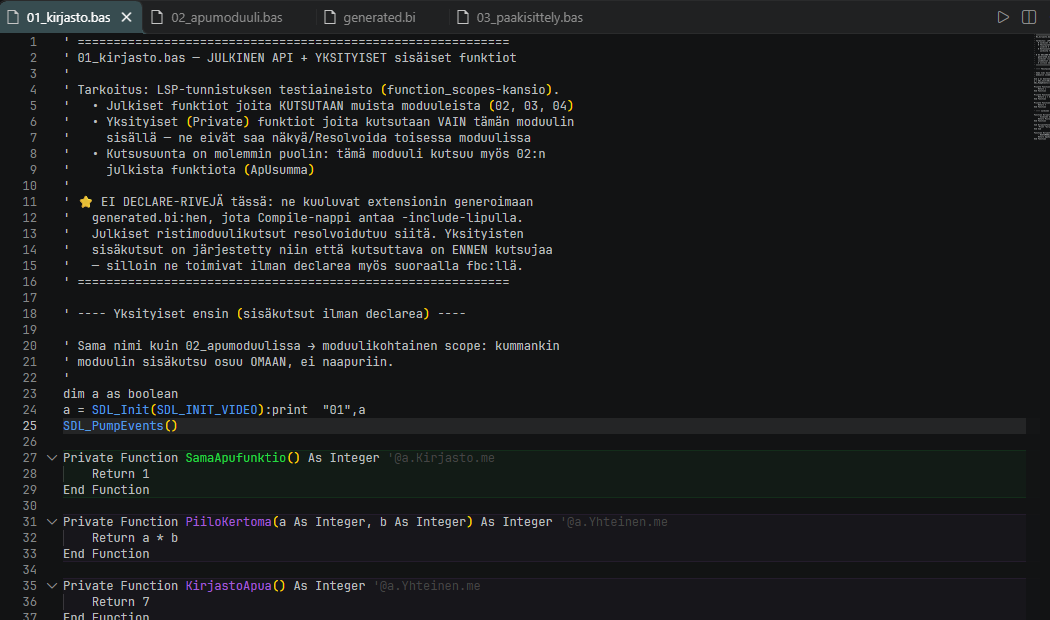
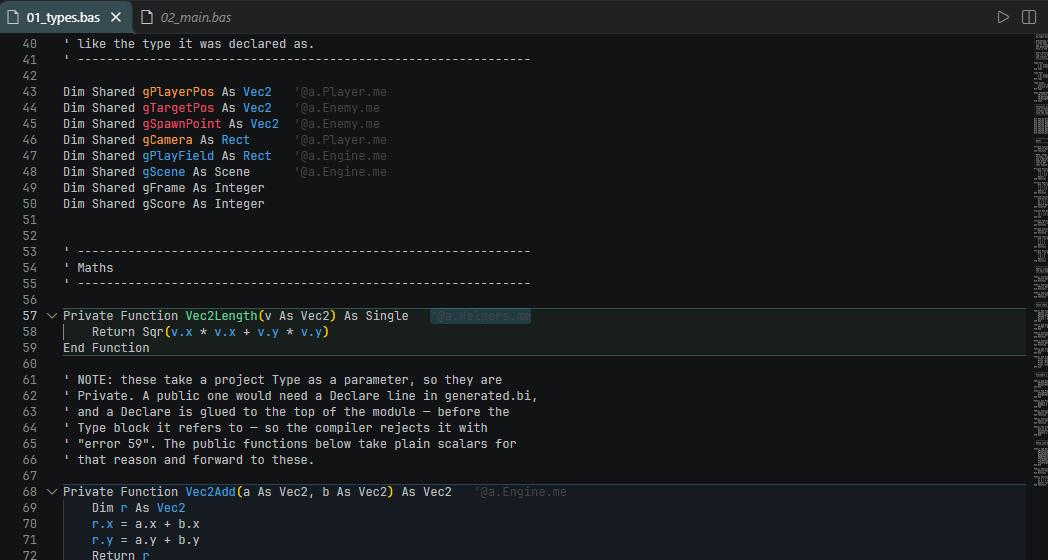
Kuvat omasta projektista, joka kaantyy ja toimii
Aiemmat kuvat olivat kayttajan testiprojektista. Nyt ne ovat
tasta projektista, jonka kirjoitin itse:

  E:\VSCodeProjects\fb_showcase\
    01_types.bas  Vec2, Rect, Scene, ShapeKind + 30 aliohjelmaa
    02_main.bas   paaohjelma
    generated.bi  declare-rivit
    me.userid     6 omaa vairiryhmaa

MITATTU: fbc -include generated.bi 02_main.bas 01_types.bas
-x showcase.exe -> exit 0, ja ajo tulostaa oikein
(field area 480000, to target 356.0899, frames 3, score 250).

Kaksi FreeBASIC-rajoitusta tuli vastaan kirjoittaessa, molemmat
jo dokumentoituja bi_test/Johtopaaatokset.md:ssa:
- error 14: Type ei nay toiselle moduulille
  (q2_tyypit_kannattaa_declareerata)
- error 59: julkinen funktio ei voi ottaa omaa Typeaan
  parametrina, koska declare liimautuu moduulin alkuun ennen
  Type-lohkoa (gen_tyypin_parametrina, kohta 10.2)
  -> tyyppiparametriset funktiot privateiksi, julkiseen
  skaalari-API

KOLME virhetta jotka johtivat tyhjään paneeliin:
1. extension ei aktivoitu ilman avattua .bas-tiedostoa
   (activationEvents: onLanguage:freebasic)
2. anoin vain kansion -> "NO FOLDER OPENED". Anoin vain
   tiedoston -> ei kansiota. Anoin molemmat.
3. freebasic.files.initialSelection on oletuksena "ask", eli
   mitään ei analysoida. Pantiin .vscode/settings.json
   "all". Sama koskee useria oikeassa kaytiksessa.

JA SE OIKEA VIRHE: tagin muoto. Kirjoitin ' @a.Engine.me
(väli apostrofin jalkeen). Oikea on '@a.Engine.me ilman
välia. 36 tagia korjattu. Käyttäjä osoitti tämän.
[…]

Changed region(s): [[0.0, 0.0, 0.6412, 1.0], [0.9466, 0.0, 1.0, 0.8804]]

diff --git a/index.html b/index.html
@@ -76,9 +76,10 @@
         <figure class="shot">
             <img src="img/panel.png" width="368" height="385"
                  alt="The FreeBASIC LSP sidebar: six tabs, a Favourites section, a search box, a scope filter showing visible files, and functions listed under the colour groups Kirjasto and Yhteinen.">
-            <figcaption><strong>The panel.</strong> Six views of the project. The list can be
-                cut down to what is visible on screen — <span class="mono">(6/20)</span> is how
-                much of the project is in view right now.</figcaption>
+            <figcaption><strong>The panel.</strong> Six views of the project, with everything grouped by
+                colour. The list can be cut down to what is visible on screen —
+                <span class="mono">(27/28)</span> is how much of the project is in view
+                right now.</figcaption>
         </figure>
 
         <!-- Ongelma vs Ratkaisu -->
@@ -133,12 +134,14 @@
             </div>
 
             <figure class="shot">
-                <img src="img/editor.png" width="1050" height="620"
-                     alt="The editor with three functions. Each carries a coloured name and a grey tag showing which group it belongs to: '@a.Kirjasto.me' in green, '@a.Yhteinen.me' in purple. The function blocks are tinted to match.">
-                <figcaption>Each function carries its group as a tag next to it — here
-                    <strong>@a.Kirjasto.me</strong> in green and <strong>@a.Yhteinen.me</strong> in
-                    purple. The tag is how a group survives a rename, a move between files, and a
-                    colleague opening the same code.</figcaption>
+                <img src="img/editor.png" width="1048" height="560"
+                     alt="The editor. Six module-level variables: the type Vec2 is blue, but gPlayerPos is orange and gTargetPos and gSpawnPoint are red — same type, different groups. Function names below are coloured by their own group.">
+                <figcaption>Every symbol carries its group as a tag beside it — here
+                    <strong>'@a.Player.me</strong> in orange, <strong>'@a.Enemy.me</strong> in red,
+                    <strong>'@a.Engine.me</strong> in blue. Note the two <code>Vec2</code> variables
+                    near the top: both are the same type, and both are a different colour from it.
+                    The tag is how a group survives a rename, a move between files, and a colleague
+                    opening the same code.</figcaption>
             </figure>
 
             <div class="workflow-grid" style="margin-top: 2.5rem;">
